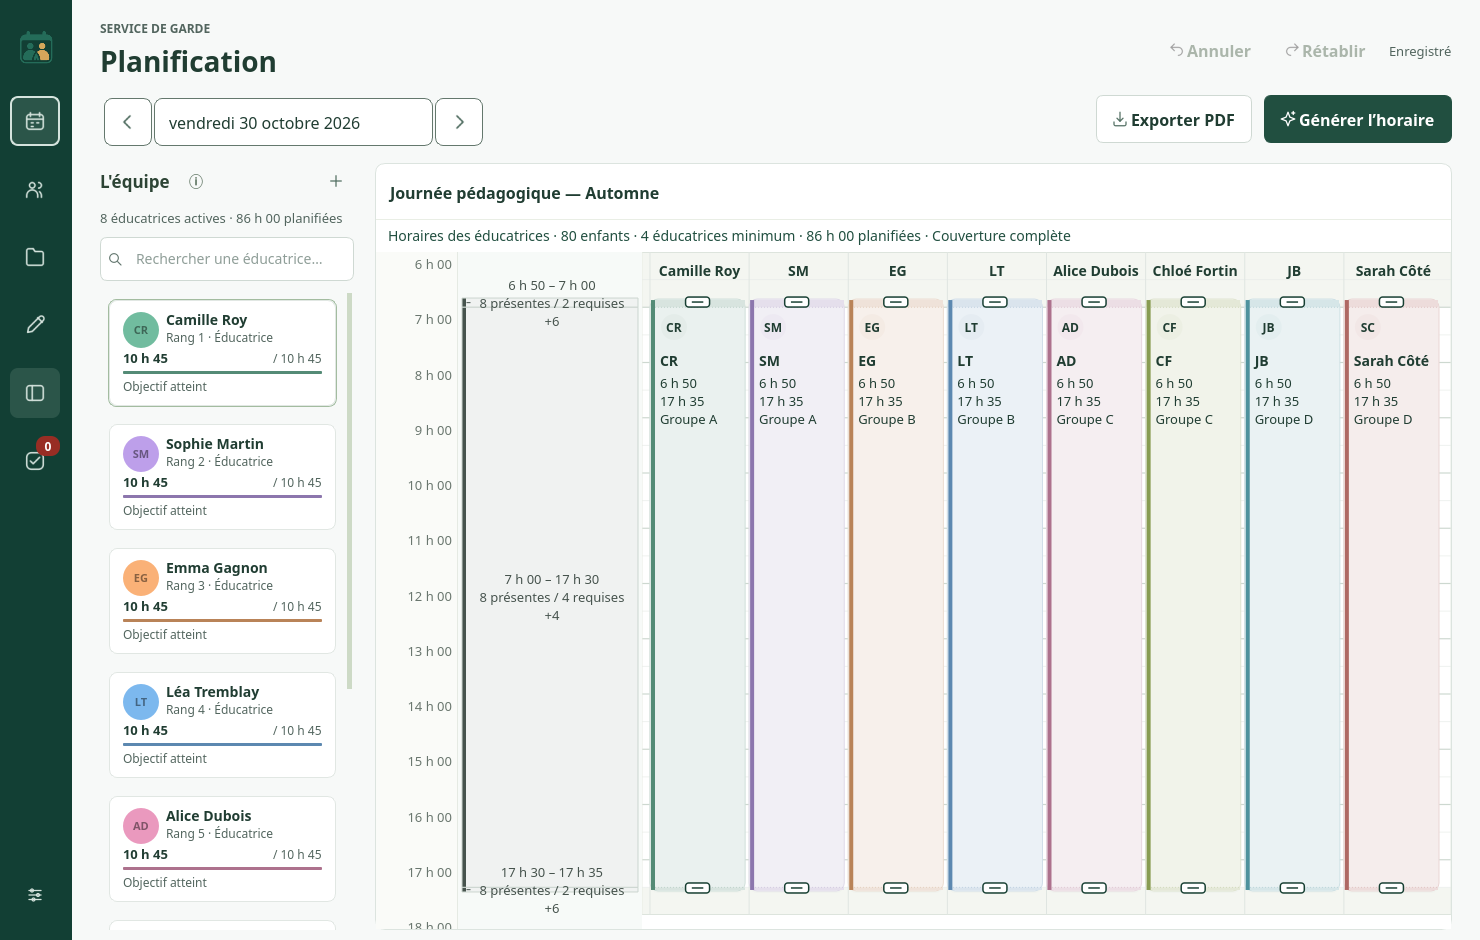
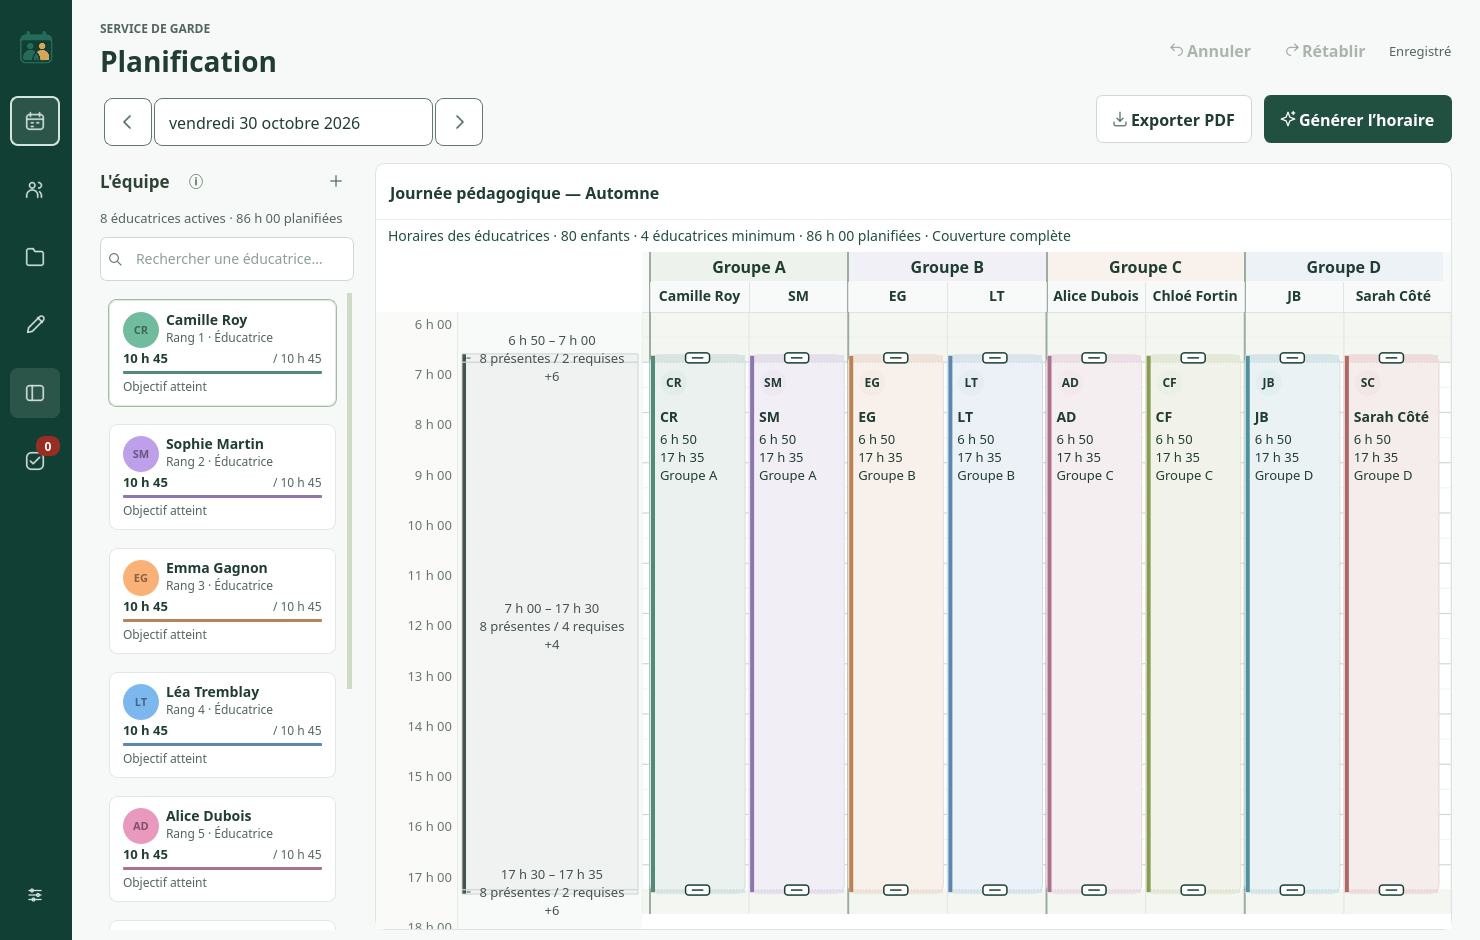
Documentation — Illustrer les groupes et leurs sous-colonnes

diff --git a/docs/GUIDE.md b/docs/GUIDE.md
@@ -129,3 +129,26 @@ Les versions archivées restent en consultation.
 Les dîners ne sont plus dessinés ni nommés dans les blocs du calendrier.
 Ils restent modifiables dans le formulaire du quart. Ils sont exclus de la
 couverture et, lorsqu’ils ne sont pas payés, du total rémunéré.
+
+
+## Groupes et sous-colonnes
+
+L’en-tête de chaque groupe couvre les sous-colonnes de ses éducatrices. Une
+éducatrice affectée à plusieurs groupes apparaît dans chacun d’eux, avec ses
+quarts distincts et leurs heures exactes. Les en-têtes restent visibles pendant
+le défilement. Les noms passent en initiales si nécessaire ; l’infobulle et le
+nom accessible donnent le libellé complet. Les profils sans affectation restent
+dans une section « À affecter » et les groupes vides offrent une cible de dépôt.
+
+Le double-clic dans une plage vide présélectionne le groupe et l’éducatrice de
+la sous-colonne. Le dépôt depuis l’équipe et le déplacement horizontal d’un
+quart ciblent le groupe situé sous le pointeur. Les heures ne changent pas lors
+d’un déplacement purement horizontal. Déplacer un quart au clavier conserve son
+groupe ; le formulaire permet de le changer explicitement.
+
+Les inscriptions réutilisent la préparation par groupes de vingt enfants,
+en conservant les identifiants et les affectations existantes. Les périodes des
+groupes devenus inutiles sont fermées ; aucun quart n’est supprimé. La taille de
+préparation des groupes ne constitue pas un ratio réglementaire. Les règles de
+couverture globales, les heures d’ouverture et de fermeture ne sont pas changées
+par cette révision de la grille.
